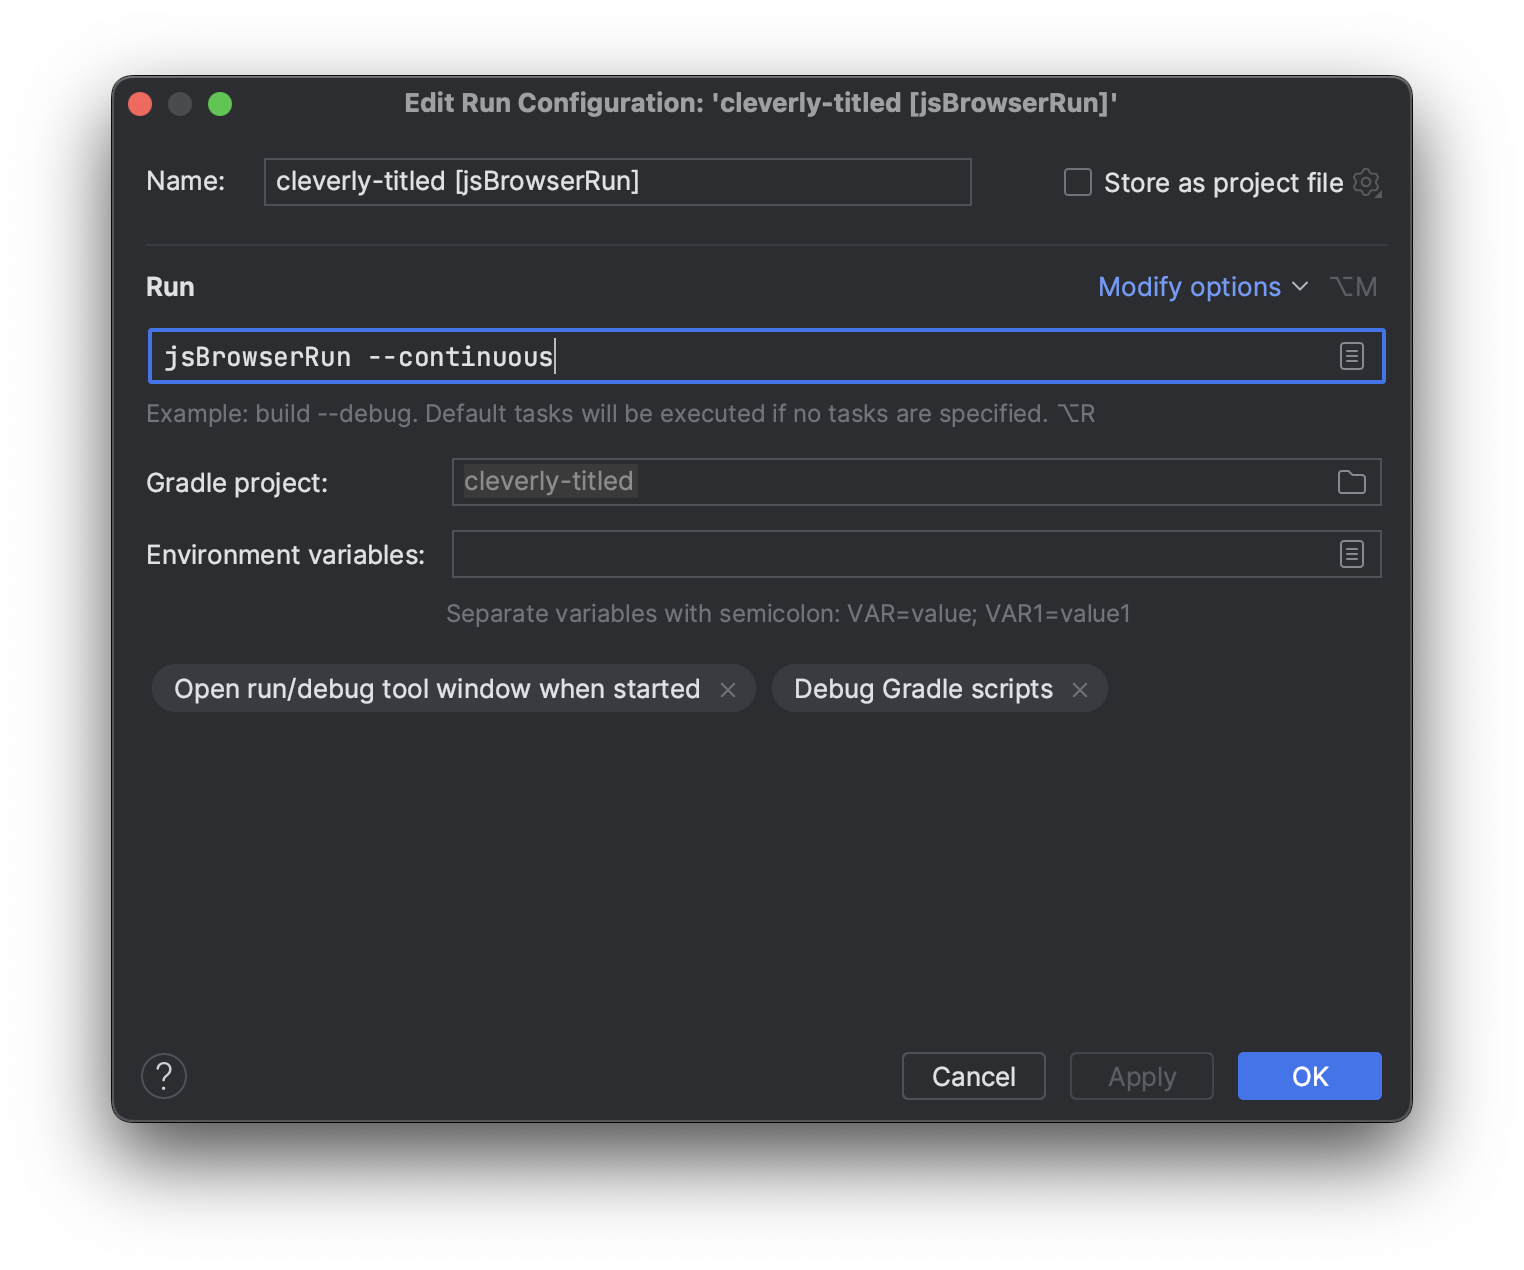
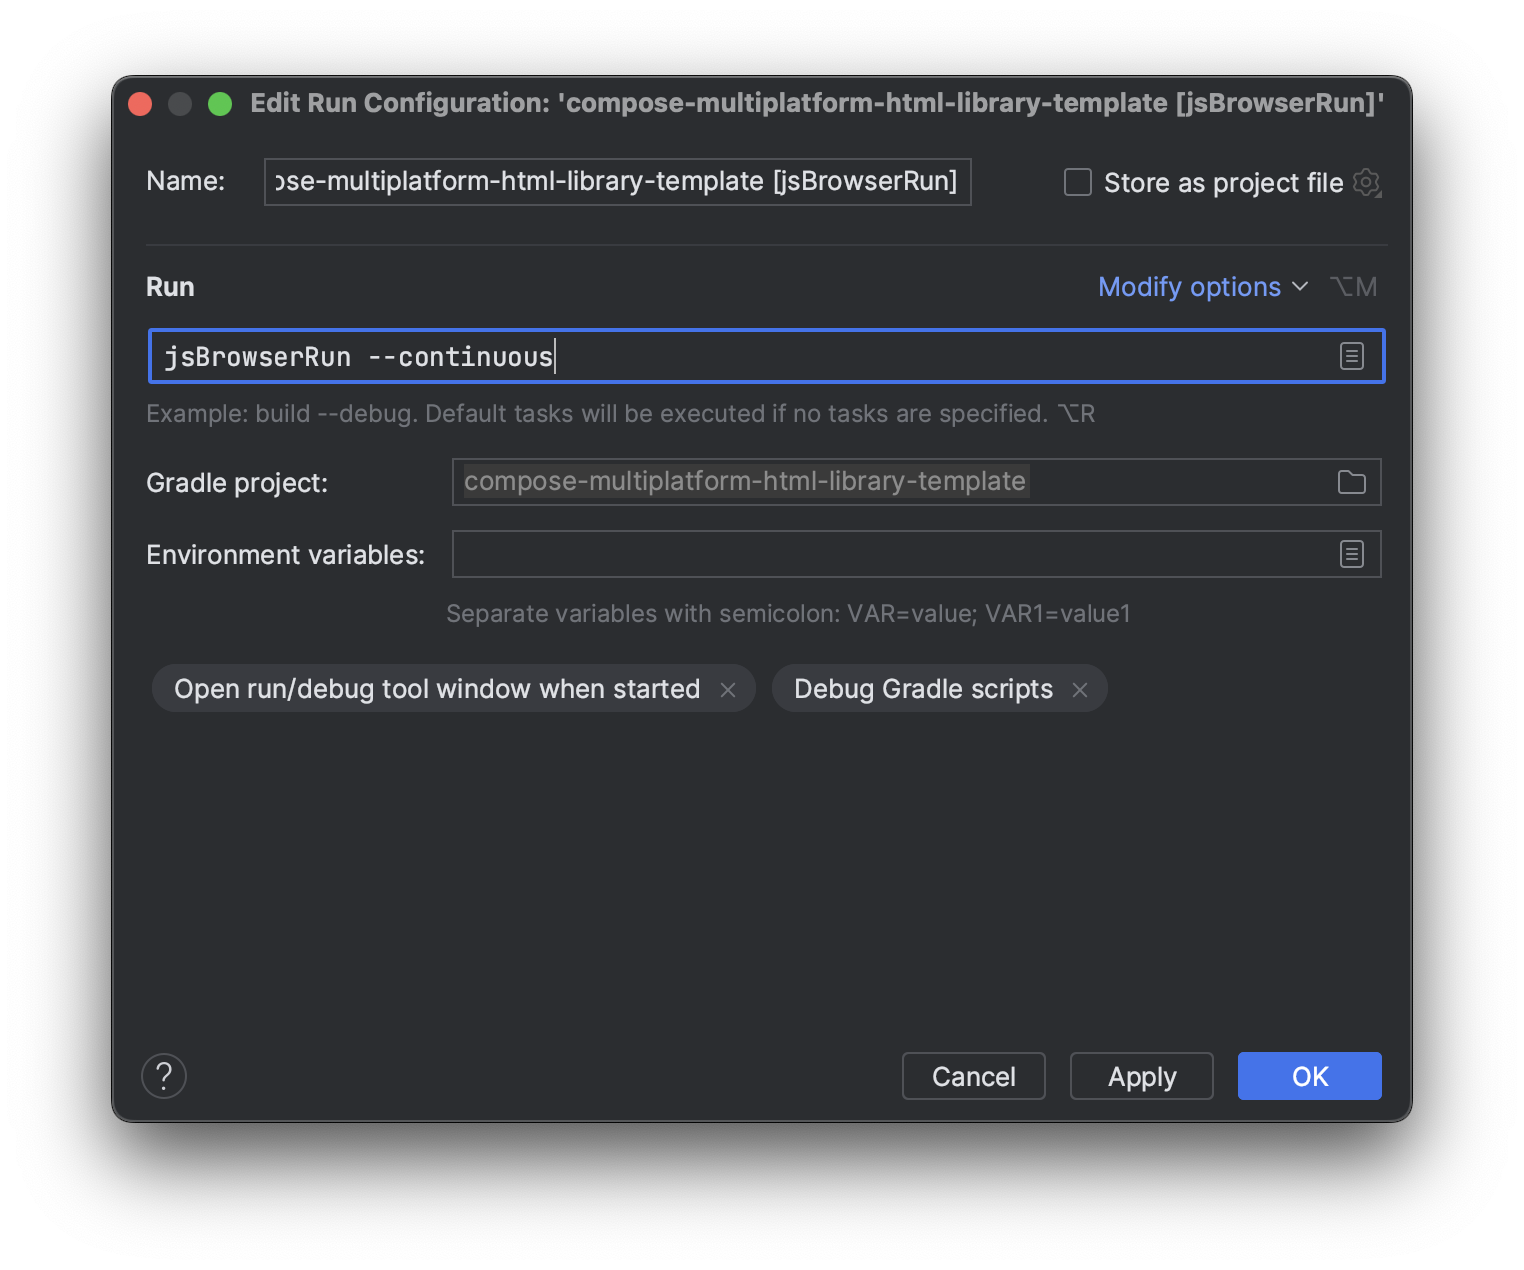
compose almost finished

diff --git a/docusaurus.config.js b/docusaurus.config.js
@@ -103,7 +103,7 @@ const config = {
       prism: {
         theme: lightCodeTheme,
         darkTheme: darkCodeTheme,
-        additionalLanguages: ['kotlin']
+        additionalLanguages: ['kotlin','gradle']
       },
     }),
 };

diff --git a/docs/compose-html-tutorial.md b/docs/compose-html-tutorial.md
@@ -4,56 +4,155 @@ sidebar_position: 4
 
 # Compose HTML tutorial
 
-1. What are we trying to achieve: make a browser click counter built as a Kotlin/JS app.
-2. What you'll need:
-   * Intellij IDEA. While you can use any environment suitable for Gradle projects, this tutorial demonstrates specifically how the project would work in IDEA.
-   * JDK 11 or newer. Whatever your environment, it should have at least JDK 11 installed or integrated.
-3. Create a project
-   * How to download the template: fork it if you like, but in any case
-     1. Open the link <https://github.com/JetBrains/compose-multiplatform-html-library-template> and copy the https or SSH address, depending on your Github setup.
-     2. File → New → Project from Version Control, paste the address.
-   * Create the project from scratch, starting with the Gradle configuration:
-     * gradle.properties
-       * ```
-         org.gradle.jvmargs=-Xmx2048m -Dfile.encoding=UTF-8
-         kotlin.code.style=official
-         kotlin.version=1.9.0
-         compose.version=1.4.3
-         ```
-     * settings.gradle.kts
-       * rootProject.name !!!
-       * ```
-         pluginManagement {
-             repositories {
-                  gradlePluginPortal()
-                  maven("https://maven.pkg.jetbrains.space/public/p/compose/dev")
-             }
-             plugins {
-                  kotlin("multiplatform").version(extra["kotlin.version"] as String)
-                  id("org.jetbrains.compose").version(extra["compose.version"] as String)
-             }
-         }
-            
-            rootProject.name = "change-to-your-project-name"
-         ```
+The Compose HTML library is aimed at producing Kotlin/JS output using the same Composable approach as the rest of Kotlin Multiplatform. This tutorial is going to guide you to a simple web app from scratch.
 
-       
-       * build.gradle.kts (Reload All Gradle Projects)
-         * [build.gradle.kts]
-   * Structure of the source code:
-     * kotlin/main.kt
-       * the main() function renders the Composable of our choosing
-       * the Composable called Body includes:
-         * a counter for storing the number of clicks (using the [remember and mutableStateOf](https://developer.android.com/jetpack/compose/state#state-in-composables) to store data within the Composable)
-         * a div for displaying that number
-         * a button which increases the number of clicks when pressed 
-       * [main.kt]
-     * resources/index.html Important parts are:
-       * correct id of the root element as in the line `renderComposable(rootElementId = "root")`
-       * the `rootProject.name = "cleverly-titled"` from settings.gradle.kts in the line `<script src="cleverly-titled.js"></script>`
-       * [index.html]
-4. Run the project:
-   * To build the current version, start the Gradle task kotlin browser → jsBrowserRun, or with the command `./gradlew jsBrowserRun` 
+## The end goal
+
+The app that we are going to run is going to be a single page with a click counter: each press of a button is going to add to a counter displayed above the button. We're not going to persistently store anything: the number of clicks will reset to 0 after each reload.
+
+
+## What you will need
+
+You'll need an IDE and an installed JDK:
+* **Intellij IDEA**. While you can use any environment suitable for Gradle projects, this tutorial demonstrates specifically how the project would work in IDEA.
+* JDK 11 or newer. Whatever your environment, it should have at least JDK 11 installed or integrated.
+
+## Let's make a project
+
+You can clone the template from GitHub, or just create a project from scratch.
+
+* The template is available at the [specific GitHub repository](https://github.com/JetBrains/compose-multiplatform-html-library-template).
+  1. Press **Use this template** and create your own repository with the provided code.
+  1. Copy the repository address of the template from the **Code** dropdown.
+  1. In Intellij IDEA, choose **File → New → Project from Version Control** and paste the address in the **URL** field, then press **Clone**.
+* If you would like to create the project from scratch, in IDEA, for example, you can:
+  1. Select **File → New → Project**.
+  2. Choose Kotlin as the language and Gradle as the build system, then press **Create**. We'll go over the code in the next section.
+
+## Structure of the source code
+
+Important code that enables the app to run is divided between Gradle configuration and source files.
+
+
+### Gradle configuration
+
+Make sure you reload your Gradle project after changing the configuration files (in IDEA, open the Gradle panel and press the **Reload All Gradle Projects** button).
+
+* Gradle properties the build is going to use:
+
+  ``` title="gradle.properties"
+  org.gradle.jvmargs=-Xmx2048m -Dfile.encoding=UTF-8
+  kotlin.code.style=official
+  kotlin.version=1.9.0
+  compose.version=1.4.3
+  ```
+
+* Gradle settings for the project. Choose the name to set as `rootProject.name` — this is going to be the name of the compiled .js file in the build output:
+  
+  ```gradle title="settings.gradle.kts"
+  pluginManagement {
+      repositories {
+          gradlePluginPortal()
+          maven("https://maven.pkg.jetbrains.space/public/p/compose/dev")
+      }
+
+      plugins {
+          kotlin("multiplatform").version(extra["kotlin.version"] as String)
+          id("org.jetbrains.compose").version(extra["compose.version"] as String)
+      }
+  }
+  
+  rootProject.name = "change-to-your-project-name"
+  ```
+
+* Gradle build script (make sure `kotlin.srcDir` and `resources.srcDir` point to existing folders):
+
+  ```gradle title="build.gradle.kts"
+  plugins {
+    kotlin("multiplatform")
+    id("org.jetbrains.compose")
+  }
+
+  repositories {
+      mavenCentral()
+      maven("https://maven.pkg.jetbrains.space/public/p/compose/dev")
+      google()
+  }
+
+  kotlin {
+      js(IR) {
+          browser()
+          binaries.executable()
+      }
+      sourceSets {
+          val jsMain by getting {
+              kotlin.srcDir("src/main/kotlin")
+              resources.srcDir("src/main/resources")
+
+              dependencies {
+                  implementation(compose.html.core)
+                  implementation(compose.runtime)
+              }
+          }
+      }
+  }
+  ```
+
+### Source code
+
+The source code for the app consists of two files:
+* an HTML file that is going to be used to embed the JS code,
+* a Kotlin file describing the logic and the Composable that we are using.
+
+The [HTML file](https://github.com/JetBrains/compose-multiplatform-html-library-template/blob/main/src/main/resources/index.html) is describing a very barebones structure, the important parts are these:
+
+```html
+
+<!-- The id of this element is going to be used to render the Composable. -->
+<div id="root"></div>
+
+<!-- The name of the .js file must match the value of rootProject.name in the settings.gradle.kts file. -->
+<script src="compose-multiplatform-html-library-template.js"></script>
+```
+
+The [Kotlin file](https://github.com/JetBrains/compose-multiplatform-html-library-template/blob/main/src/main/kotlin/main.kt) renders the Composable in the `main()` function and describes the Composable with intuitive syntax:
+
+```kotlin
+fun main() {
+    // rootElementId is the id of the HTML element where the Composable should be rendered.
+    renderComposable(rootElementId = "root") {
+        Body()
+    }
+}
+
+@Composable
+fun Body() {
+    var counter by remember { mutableStateOf(0) }
+
+    // <div> displaying the number of clicks.
+    Div {
+        Text("Clicked: ${counter}")
+    }
+
+    // Button that increases the counter.
+    Button(
+        attrs = {
+            onClick { _ ->
+                counter++
+            }
+        }
+    ) {
+        Text("Click")
+    }
+}
+```
+
+## Run the project
+
+When everything is in place, make sure you rebuilt the Gradle project to account for changes in configuration, and run it:
+
+   * To build the current version, start the Gradle task **kotlin browser → jsBrowserRun**, or with the command `./gradlew jsBrowserRun` 
    * To make IDEA watch changes in the files and rebuild the project on the fly, use the command `./gradlew jsBrowserRun --continuous`. You can also modify the Gradle taks in IDEA to make it start like this by default:
+      ![continuous screenshot](./img/gradle-jsbrowser-continuous.png)
 
-Further reading
+## What's next
